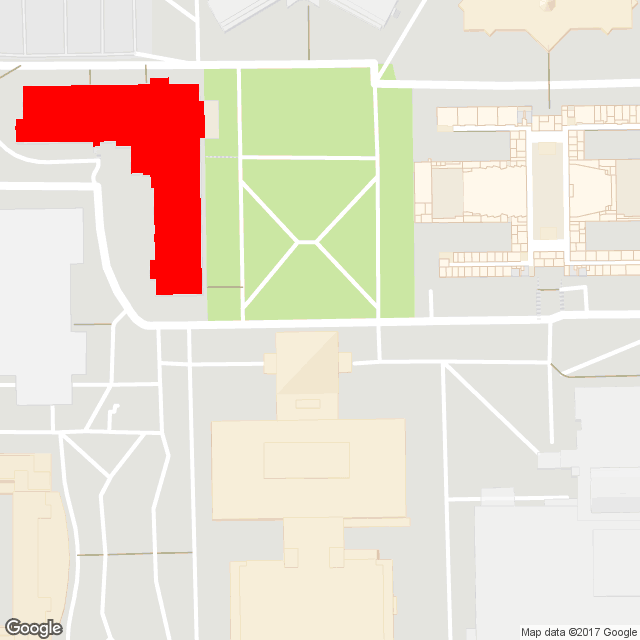
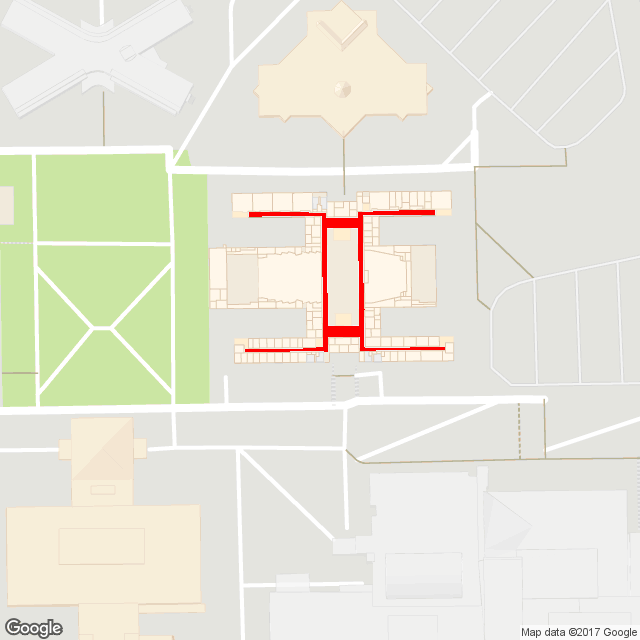
jiji

diff --git a/tests/server/ProcessingTests.java b/tests/server/ProcessingTests.java
@@ -104,11 +104,11 @@ public class ProcessingTests {
 	@Test
 	public void fillImageTest()
 	{
-		Color c = new Color(255,0,0);
-		System.out.println(c.getRGB());
+		//Color c = new Color(255,0,0);
+		//System.out.println(c.getRGB());
 		//LatLng buildingPoint = new LatLng(40.249403, -111.651154);
-		LatLng buildingPoint = new LatLng(40.249603, -111.650054);
-		LatLng endPoint = new LatLng(40.249218, -111.648338);
+		LatLng buildingPoint = new LatLng(40.249803, -111.647854);
+		LatLng endPoint = new LatLng(40.249718, -111.648338);
 		LatLng center = Tools.getCenter(buildingPoint, endPoint);
 		int sizeX = 640;
 		int sizeY = 640;
